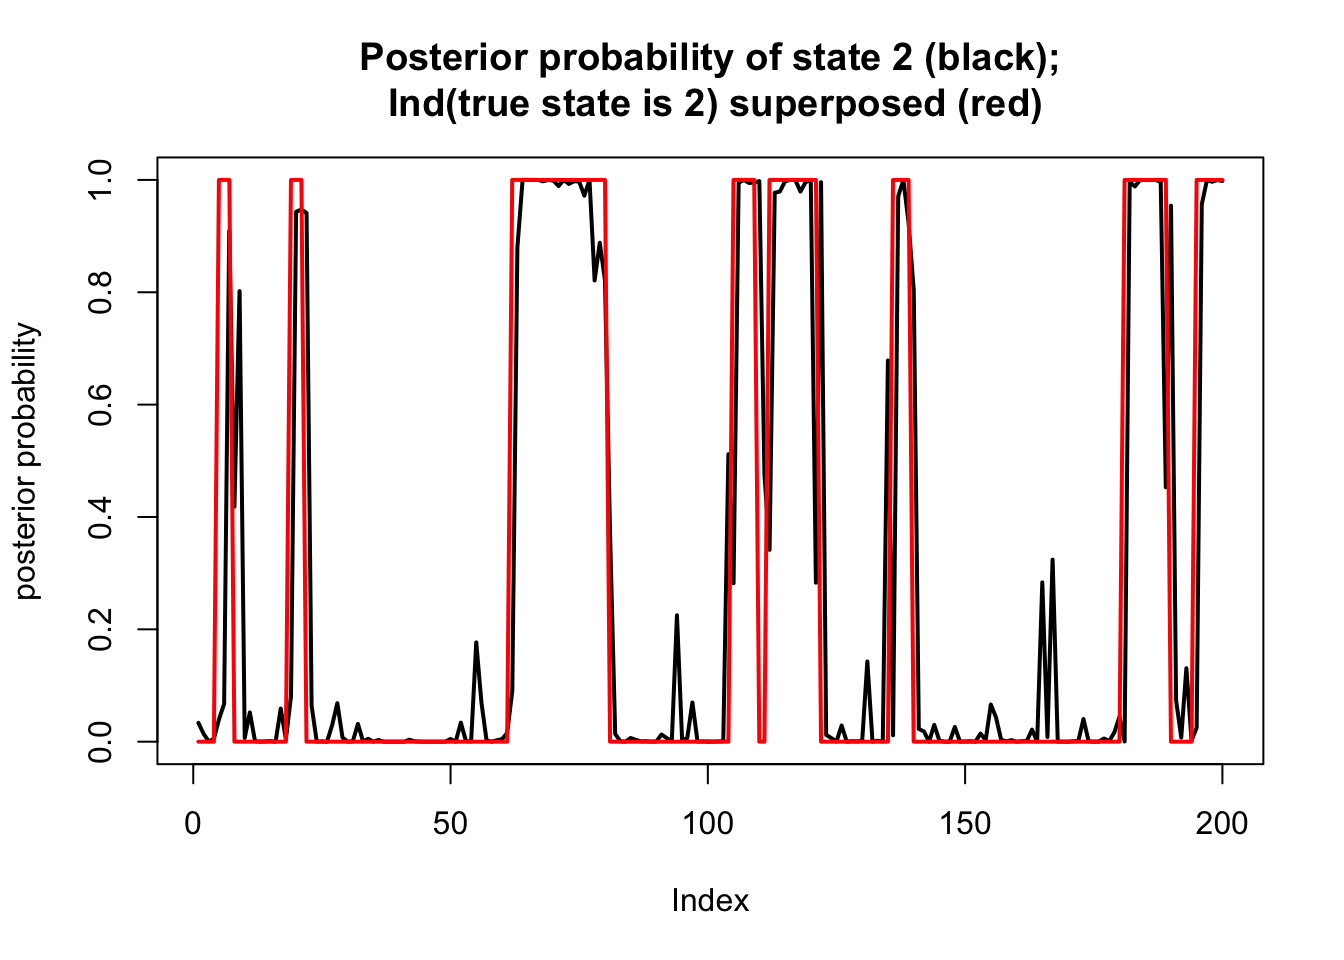
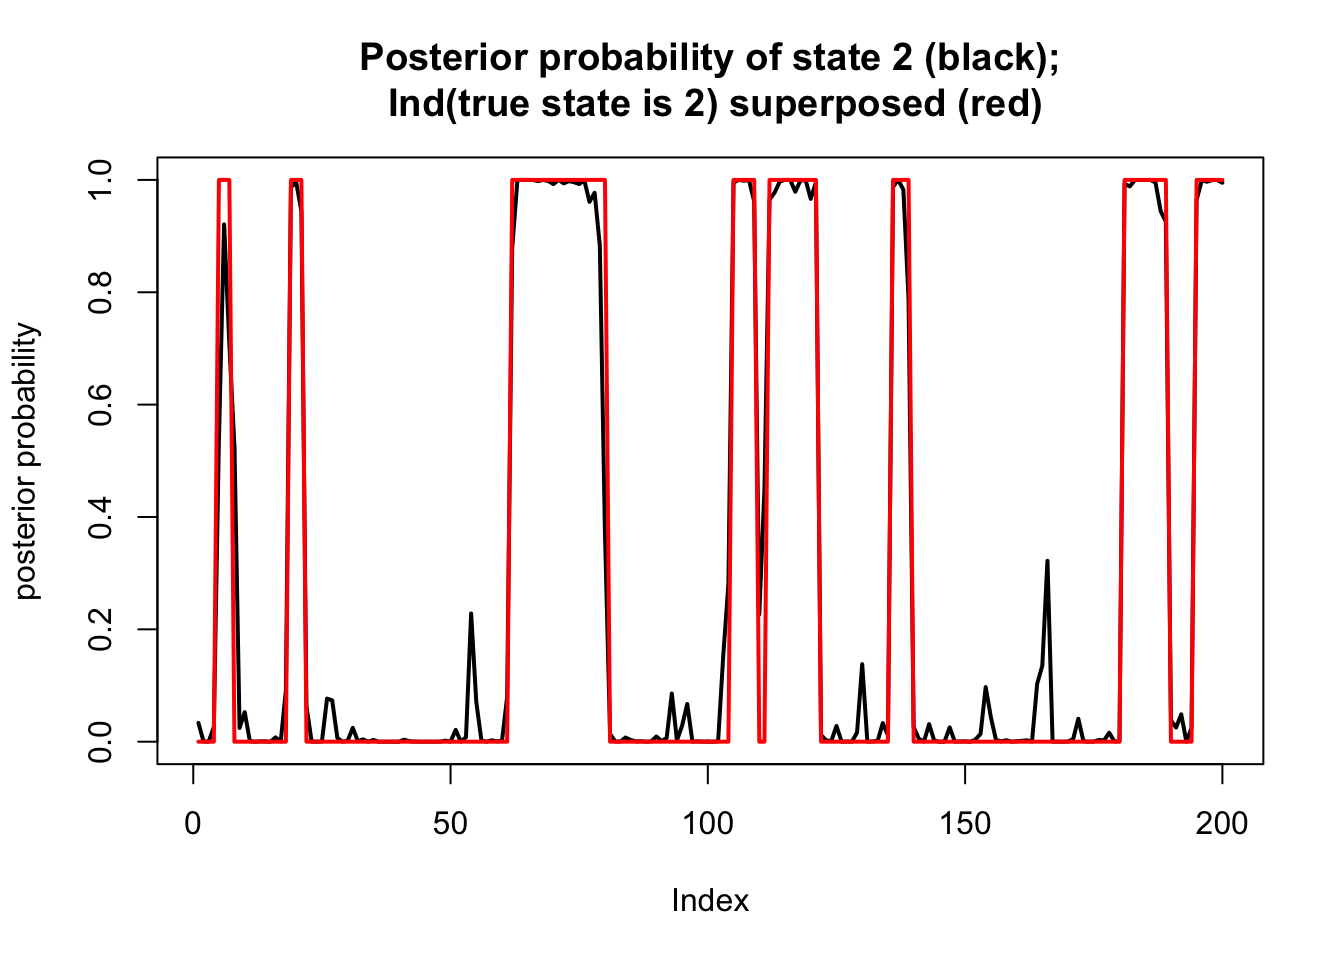
Build site.

Changed region(s): [[0.5312, 0.1875, 0.9062, 0.7812], [0.3125, 0.1875, 0.5625, 0.7812], [0.1562, 0.2188, 0.2812, 0.7812]]

diff --git a/docs/hmm.html b/docs/hmm.html
@@ -440,7 +440,7 @@ div.section {
 <div class="tab-content">
 <div id="summary" class="tab-pane fade in active">
 <p>
-<strong>Last updated:</strong> 2019-03-31
+<strong>Last updated:</strong> 2019-06-03
 </p>
 <p>
 <strong>Checks:</strong> <span class="glyphicon glyphicon-ok text-success" aria-hidden="true"></span> 6 <span class="glyphicon glyphicon-exclamation-sign text-danger" aria-hidden="true"></span> 0
@@ -519,10 +519,10 @@ This reproducible <a href="http://rmarkdown.rstudio.com">R Markdown</a> analysis
 <div class="panel panel-default">
 <div class="panel-heading">
 <p class="panel-title">
-<a data-toggle="collapse" data-parent="#workflowr-checks" href="#strongRepositoryversionstrongahrefhttpsgithubcomstephens999fiveMinuteStatstree0cd28bd3e7aea2258f9c3a55e2e0060c55403123targetblank0cd28bda"> <span class="glyphicon glyphicon-ok text-success" aria-hidden="true"></span> <strong>Repository version:</strong> <a href="https://github.com/stephens999/fiveMinuteStats/tree/0cd28bd3e7aea2258f9c3a55e2e0060c55403123" target="_blank">0cd28bd</a> </a>
+<a data-toggle="collapse" data-parent="#workflowr-checks" href="#strongRepositoryversionstrongahrefhttpsgithubcomstephens999fiveMinuteStatstree588ad69862fb05cabc34b1910fd9b82a97444aabtargetblank588ad69a"> <span class="glyphicon glyphicon-ok text-success" aria-hidden="true"></span> <strong>Repository version:</strong> <a href="https://github.com/stephens999/fiveMinuteStats/tree/588ad69862fb05cabc34b1910fd9b82a97444aab" target="_blank">588ad69</a> </a>
 </p>
 </div>
[2 lines of base64/hex data omitted]
 <div class="panel-body">
 <p>
 Great! You are using Git for version control. Tracking code development and connecting the code version to the results is critical for reproducibility. The version displayed above was the version of the Git repository at the time these results were generated. <br><br> Note that you need to be careful to ensure that all relevant files for the analysis have been committed to Git prior to generating the results (you can use <code>wflow_publish</code> or <code>wflow_git_commit</code>). workflowr only checks the R Markdown file, but you know if there are other scripts or data files that it depends on. Below is the status of the Git repository when the results were generated:
@@ -543,7 +543,8 @@ Untracked files:
     Untracked:  analysis/shiny/tester/
     Untracked:  docs/MH_intro_files/
     Untracked:  docs/citations.bib
-    Untracked:  docs/figure/MH_intro.Rmd/
+    Untracked:  docs/figure/The Ancestral Process.Rmd/
+    Untracked:  docs/figure/The Coalescent Process.Rmd/
     Untracked:  docs/hmm_files/
     Untracked:  docs/libs/
     Untracked:  docs/shiny/tester/
@@ -585,6 +586,40 @@ Message
 </tr>
 </thead>
 <tbody>
+<tr>
+<td>
+Rmd
+</td>
+<td>
+<a href="https://github.com/stephens999/fiveMinuteStats/blob/588ad69862fb05cabc34b1910fd9b82a97444aab/analysis/hmm.Rmd" target="_blank">588ad69</a>
+</td>
+<td>
+Matthew Stephens
+</td>
+<td>
+2019-06-03
+</td>
+<td>
+workflowr::wflow_publish(“analysis/hmm.Rmd”)
+</td>
+</tr>
+<tr>
+<td>
+html
+</td>
+<td>
+<a href="https://rawcdn.githack.com/stephens999/fiveMinuteStats/5f62ee6cf86b77e9f45e0c6b6e3d6b97c7faf675/docs/hmm.html" target="_blank">5f62ee6</a>
+</td>
+<td>
+Matthew Stephens
+</td>
+<td>
+2019-03-31
+</td>
+<td>
+Build site.
+</td>
+</tr>
 <tr>
 <td>
 html
@@ -653,6 +688,43 @@ X= rnorm(T,mean=Z,sd=sd)
 plot(X, main=&quot;Realization of HMM; latent states shown in red&quot;)
 lines(Z,col=2,lwd=2)</code></pre>
 <p><img src="figure/hmm.Rmd/unnamed-chunk-1-1.png" width="672" style="display: block; margin: auto;" /></p>
+<p>
+<button type="button" class="btn btn-default btn-xs btn-workflowr btn-workflowr-fig" data-toggle="collapse" data-target="#fig-unnamed-chunk-1-1">
+Past versions of unnamed-chunk-1-1.png
+</button>
+</p>
+<div id="fig-unnamed-chunk-1-1" class="collapse">
+<div class="table-responsive">
+<table class="table table-condensed table-hover">
+<thead>
+<tr>
+<th>
+Version
+</th>
+<th>
+Author
+</th>
+<th>
+Date
+</th>
+</tr>
+</thead>
+<tbody>
+<tr>
+<td>
+<a href="https://github.com/stephens999/fiveMinuteStats/blob/5f62ee6cf86b77e9f45e0c6b6e3d6b97c7faf675/docs/figure/hmm.Rmd/unnamed-chunk-1-1.png" target="_blank">5f62ee6</a>
+</td>
+<td>
+Matthew Stephens
+</td>
+<td>
+2019-03-31
+</td>
+</tr>
+</tbody>
+</table>
+</div>
+</div>
 </div>
 <div id="compute-forwards-probabilities" class="section level1">
 <h1>Compute Forwards Probabilities</h1>
@@ -677,7 +749,7 @@ for(k in 1:K){
 for(t in 1:(T-1)){
   m = alpha[t,] %*% P
   for(k in 1:K){
-    alpha[t+1,k] = m[k]*emit(k,X[t]) 
+    alpha[t+1,k] = m[k]*emit(k,X[t+1]) 
   }
 }</code></pre>
 </div>
@@ -686,7 +758,7 @@ for(t in 1:(T-1)){
 <p>Note that the forwards algorithm also allows us to compute the likelihood, <span class="math inline">\(p(X_1,\dots,X_T)\)</span>. Indeed, by definition of <span class="math inline">\(\alpha\)</span> we have <span class="math display">\[p(X_1,\dots,X_T) = \sum_k \alpha_{Tk}.\]</span></p>
 <p>So the likelihood is:</p>
 <pre class="r"><code>sum(alpha[T,])</code></pre>
-<pre><code>[1] 1.142681e-65</code></pre>
+<pre><code>[1] 1.53501e-65</code></pre>
 <p>Notice that these alpha numbers can get very small! This can cause numerical issues if <span class="math inline">\(T\)</span> were larger and we should really be more careful to avoid this! A common strategy is to “renormalize” the <span class="math inline">\(\alpha\)</span>s at each iteration: that is, for each <span class="math inline">\(t\)</span> divide the <span class="math inline">\(\alpha_{tk}\)</span> by <span class="math inline">\(\sum_k \alpha_{tk}\)</span>, and then store the value of this sum separately. Maybe you can work out the details!</p>
 </div>
 <div id="compute-backwards-probabilities" class="section level1">
@@ -719,6 +791,43 @@ for(t in (T-1):1){
   plot(prob[,2],type=&quot;l&quot;,ylim=c(0,1), main=&quot;Posterior probability of state 2 (black);\n Ind(true state is 2) superposed (red)&quot;,lwd=2,ylab=&quot;posterior probability&quot;)
   lines(Z==2,col=2,lwd=2)</code></pre>
 <p><img src="figure/hmm.Rmd/unnamed-chunk-5-1.png" width="672" style="display: block; margin: auto;" /></p>
+<p>
+<button type="button" class="btn btn-default btn-xs btn-workflowr btn-workflowr-fig" data-toggle="collapse" data-target="#fig-unnamed-chunk-5-1">
+Past versions of unnamed-chunk-5-1.png
+</button>
+</p>
+<div id="fig-unnamed-chunk-5-1" class="collapse">
+<div class="table-responsive">
+<table class="table table-condensed table-hover">
+<thead>
+<tr>
+<th>
+Version
+</th>
+<th>
+Author
+</th>
+<th>
+Date
+</th>
+</tr>
+</thead>
+<tbody>
+<tr>
+<td>
+<a href="https://github.com/stephens999/fiveMinuteStats/blob/5f62ee6cf86b77e9f45e0c6b6e3d6b97c7faf675/docs/figure/hmm.Rmd/unnamed-chunk-5-1.png" target="_blank">5f62ee6</a>
+</td>
+<td>
+Matthew Stephens
+</td>
+<td>
+2019-03-31
+</td>
+</tr>
+</tbody>
+</table>
+</div>
+</div>
 <br> <br>
 <p>
 <button type="button" class="btn btn-default btn-workflowr btn-workflowr-sessioninfo" data-toggle="collapse" data-target="#workflowr-sessioninfo" style="display: block;">
@@ -729,7 +838,7 @@ for(t in (T-1):1){
 <pre class="r"><code>sessionInfo()</code></pre>
 <pre><code>R version 3.5.2 (2018-12-20)
 Platform: x86_64-apple-darwin15.6.0 (64-bit)
-Running under: macOS Mojave 10.14.1
+Running under: macOS Mojave 10.14.4
 
 Matrix products: default
 BLAS: /Library/Frameworks/R.framework/Versions/3.5/Resources/lib/libRblas.0.dylib
@@ -742,7 +851,7 @@ attached base packages:
 [1] stats     graphics  grDevices utils     datasets  methods   base     
 
 loaded via a namespace (and not attached):
- [1] workflowr_1.2.0 Rcpp_1.0.0      digest_0.6.18   rprojroot_1.3-2
+ [1] workflowr_1.2.0 Rcpp_1.0.1      digest_0.6.18   rprojroot_1.3-2
  [5] backports_1.1.3 git2r_0.24.0    magrittr_1.5    evaluate_0.12  
  [9] stringi_1.2.4   fs_1.2.6        whisker_0.3-2   rmarkdown_1.11 
 [13] tools_3.5.2     stringr_1.3.1   glue_1.3.0      xfun_0.4       
